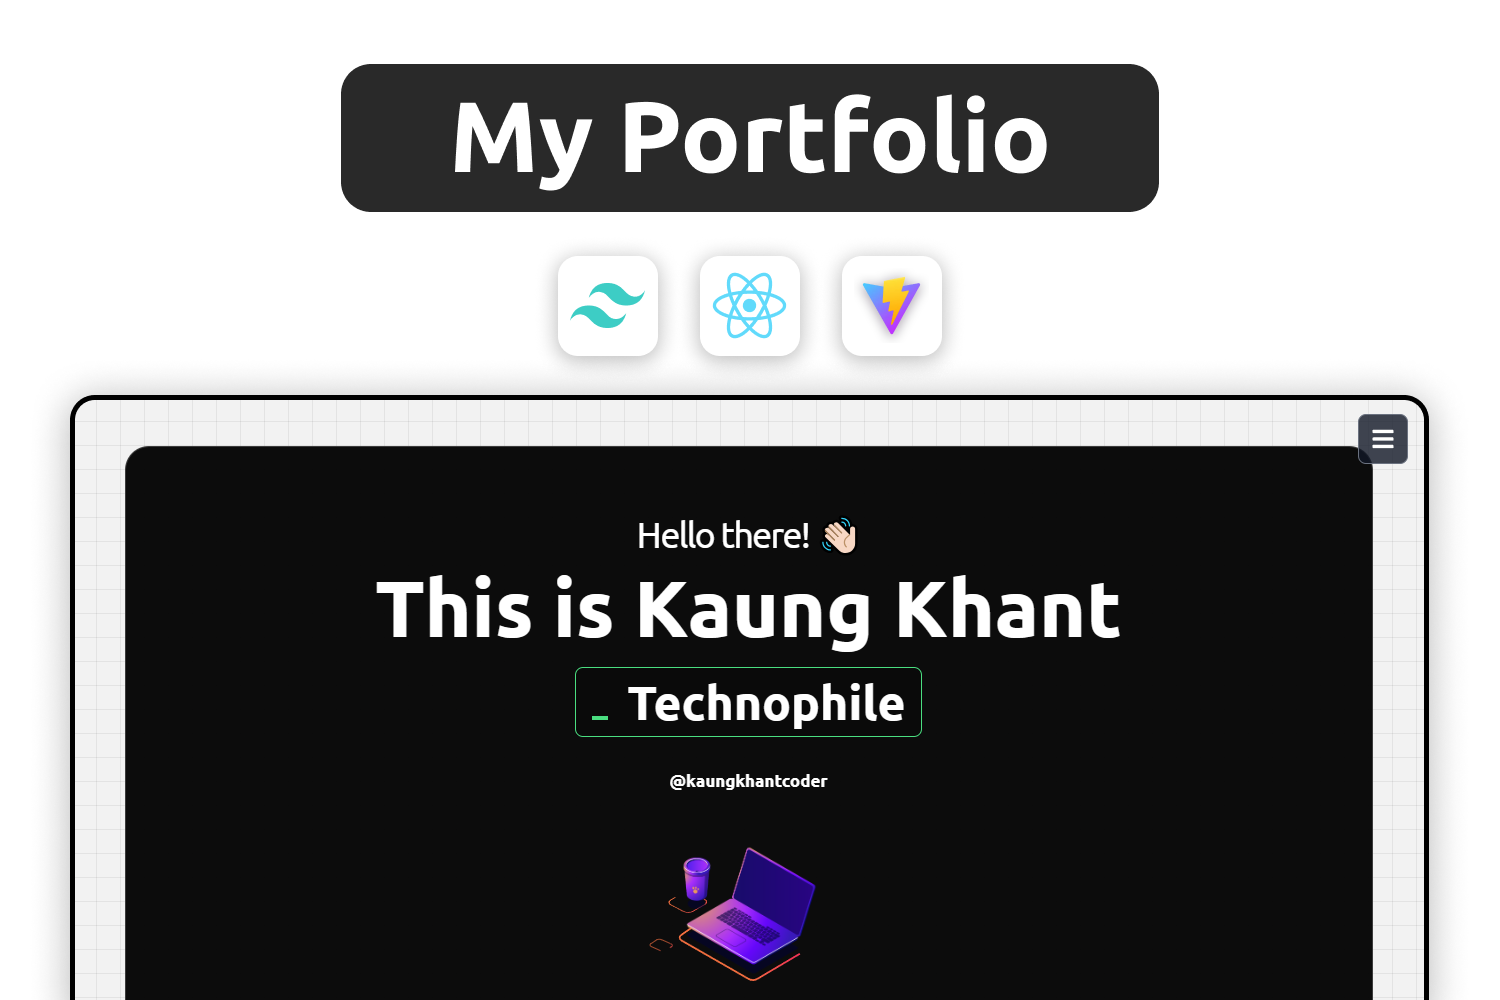
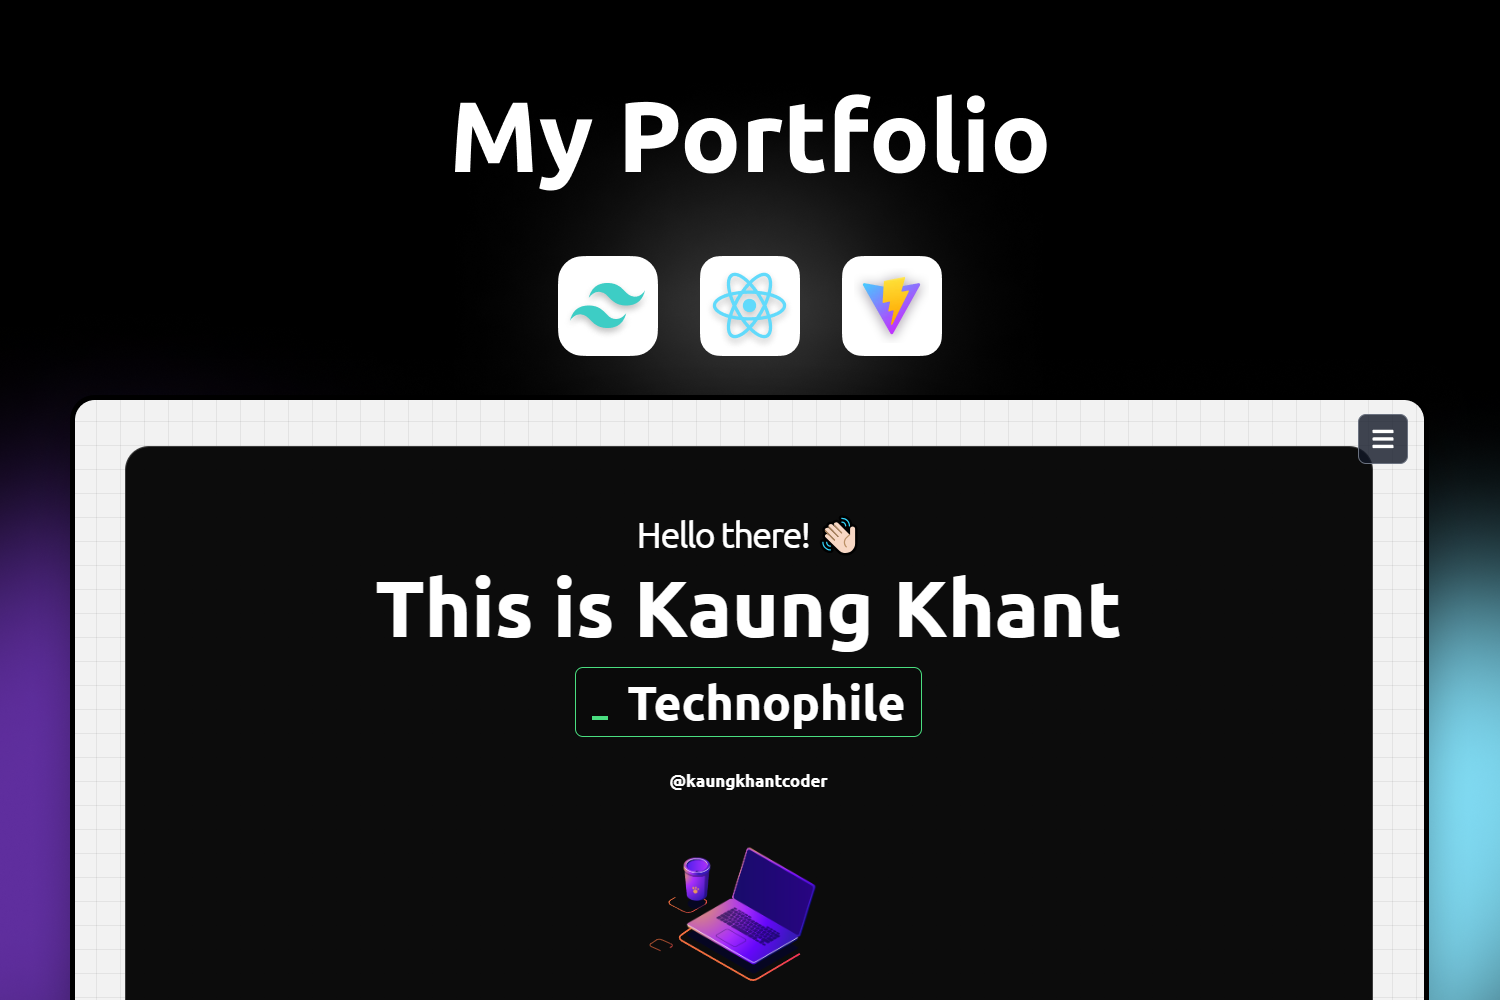
update hero pj

diff --git a/src/components/Projects.jsx b/src/components/Projects.jsx
@@ -279,6 +279,61 @@
 
 // export default Projects;
 
+// import { useState } from "react";
+// import { projects } from "../constants";
+
+// const Projects = () => {
+//   const [showAll, setShowAll] = useState(false); // State to toggle between 4 and all projects
+//   const visibleProjects = showAll ? projects : projects.slice(0, 4); // Show 4 projects or all
+
+//   return (
+//     <div className="">
+//       <h1 className="text-bold text-left text-[40px] md:text-[70px] text-black p-4">My Works <span className="inline-block w-8 h-1 bg-black mr-2"></span></h1>
+//       <div className="grid md:grid-cols-2 grid-cols-1 gap-6 p-4 max-w-4xl mx-auto" id="projects">
+//         {visibleProjects.map((project) => (
+//           <div
+//             key={project.id}
+//             className="relative overflow-hidden border p-3 border-black/50 rounded-lg group"
+//           >
+//             <img
+//               src={project.image}
+//               alt={project.name}
+//               className="w-full h-full object-cover transition rounded-lg border border-gray-200 duration-300 group-hover:blur-sm"
+//             />
+//             <div className="absolute inset-0 bg-black bg-opacity-50 flex flex-col items-center justify-center opacity-0 group-hover:opacity-100 transition duration-300">
+//               <h3 className="text-white text-lg font-bold">{project.name}</h3>
+//               <p className="text-white text-md font-medium text-center pl-4 pr-4 p-2">
+//                 {project.description}
+//               </p>
+//               <a
+//                 href={project.github}
+//                 target="_blank"
+//                 rel="noopener noreferrer"
+//                 className="mt-2 bg-white text-black px-4 py-2 rounded text-sm font-medium hover:bg-gray-200 transition duration-300"
+//               >
+//                 GitHub
+//               </a>
+//             </div>
+//           </div>
+//         ))}
+//         {/* See More / Show Less Button */}
+//         {projects.length > 4 && (
+//           <div className="col-span-full flex justify-center mt-6">
+//             <button
+//               onClick={() => setShowAll(!showAll)}
+//               className="px-6 py-2 rounded-xl bg-black text-white border border-gray-700/50 hover:bg-white hover:text-black transition-colors text-sm font-medium"
+//             >
+//               {showAll ? "Show Less" : "See More"}
+//             </button>
+//           </div>
+//         )}
+//       </div>
+//     </div>
+//   );
+// };
+
+// export default Projects;
+
 import { useState } from "react";
 import { projects } from "../constants";
 
@@ -287,47 +342,69 @@ const Projects = () => {
   const visibleProjects = showAll ? projects : projects.slice(0, 4); // Show 4 projects or all
 
   return (
-    <div className="">
-      <h1 className="text-bold text-left text-[40px] md:text-[70px] text-black p-4">My Works <span className="inline-block w-8 h-1 bg-black mr-2"></span></h1>
-      <div className="grid md:grid-cols-2 grid-cols-1 gap-6 p-4 max-w-4xl mx-auto" id="projects">
-        {visibleProjects.map((project) => (
-          <div
-            key={project.id}
-            className="relative overflow-hidden border p-3 border-black/50 rounded-lg group"
-          >
+    <div className="grid md:grid-cols-2 grid-cols-1 gap-4 p-6 w-full mx-auto" id="projects">
+      {visibleProjects.map((project) => (
+        <div
+          key={project.id}
+          className="bg-white rounded-xl p-4 shadow-lg"
+        >
+          {/* Header (Avatar, Name, Date) */}
+          <div className="flex items-center mb-3">
+            <img
+              src={"/src/assets/Koderlogo.png"}
+              alt={project.name}
+              className="w-10 h-10 rounded-full flex-shrink-0 mr-3 flex items-center justify-center text-white font-bold text-sm"
+            />
+            <div className="flex-1">
+              <div className="flex items-center justify-between">
+                <div>
+                  <h3 className="text-black font-semibold">{project.name}</h3>
+                  <span className="text-black/50 text-xs">
+                    {project.date || "April 2025"}
+                  </span>
+                </div>
+                <a
+                  href={project.github}
+                  target="_blank"
+                  rel="noopener noreferrer"
+                  className="hidden md:block bg-black/90 text-white px-4 py-1.5 rounded-md text-sm font-medium hover:scale-105 transition duration-200"
+                >
+                  View on GitHub
+                </a>
+              </div>
+            </div>
+          </div>
+          {/* Content (Description + Tech Stack) */}
+          <p className="text-black/90 text-sm overflow-hidden mt-5 mb-3">{project.description}</p>
+          {/* Image */}
+          <div className="mb-4 w-full overflow-hidden rounded-lg">
             <img
               src={project.image}
               alt={project.name}
-              className="w-full h-full object-cover transition rounded-lg border border-gray-200 duration-300 group-hover:blur-sm"
+              className="w-full h-full object-cover rounded-lg hover:scale-105 transition-transform duration-300"
             />
-            <div className="absolute inset-0 bg-black bg-opacity-50 flex flex-col items-center justify-center opacity-0 group-hover:opacity-100 transition duration-300">
-              <h3 className="text-white text-lg font-bold">{project.name}</h3>
-              <p className="text-white text-md font-medium text-center pl-4 pr-4 p-2">
-                {project.description}
-              </p>
-              <a
-                href={project.github}
-                target="_blank"
-                rel="noopener noreferrer"
-                className="mt-2 bg-white text-black px-4 py-2 rounded text-sm font-medium hover:bg-gray-200 transition duration-300"
-              >
-                GitHub
-              </a>
-            </div>
           </div>
-        ))}
-        {/* See More / Show Less Button */}
-        {projects.length > 4 && (
-          <div className="col-span-full flex justify-center mt-6">
-            <button
-              onClick={() => setShowAll(!showAll)}
-              className="px-6 py-2 rounded-xl bg-black text-white border border-gray-700/50 hover:bg-white hover:text-black transition-colors text-sm font-medium"
-            >
-              {showAll ? "Show Less" : "See More"}
-            </button>
-          </div>
-        )}
-      </div>
+          <a
+            href={project.github}
+            target="_blank"
+            rel="noopener noreferrer"
+            className="md:hidden bg-black/90 text-white hover:text-black hover:bg-black px-4 py-1.5 rounded-md md:text[16px] text-[12px] font-medium hover:scale-105 transition duration-200"
+          >
+            View on GitHub
+          </a>
+        </div>
+      ))}
+      {/* See More / Show Less Button */}
+      {projects.length > 4 && (
+        <div className="col-span-full flex justify-center mt-6">
+          <button
+            onClick={() => setShowAll(!showAll)}
+            className="px-6 py-2 rounded-xl bg-black text-white border border-gray-700/50 hover:bg-white hover:text-black transition-colors text-sm font-medium"
+          >
+            {showAll ? "Show Less" : "See More"}
+          </button>
+        </div>
+      )}
     </div>
   );
 };

diff --git a/src/components/Hero.jsx b/src/components/Hero.jsx
@@ -445,7 +445,7 @@ useEffect(() => {
   return (
     <section
       id="hero"
-      className="relative flex w-full items-center justify-center min-h-screen text-center rounded-3xl bg-black  border border-white/20 py-2 mt-[30px] overflow-hidden bg-black/95 text-white"
+      className="relative flex w-full items-center justify-center min-h-screen text-center rounded-3xl  border border-white/20 py-2 mt-[30px] overflow-hidden bg-black text-white"
     >
       <div className="flex flex-col w-full max-w-6xl mx-auto p-5 md:p-10 gap-6">
         {/* Top Section - Profile Info */}
@@ -456,7 +456,7 @@ useEffect(() => {
           <h1 className="text-2xl m-2 md:m-3 sm:text-5xl md:text-4xl lg:text-[5rem] font-bold">
               {HERO.name}
           </h1>
-          <div className="items-center mt-3 md:mt-7 backdrop-blur-lg border border-gray-200 text-center rounded-lg hover:scale-105 transition font-medium bg-white text-black dark:focus:ring-gray-600 dark:bg-black/20 dark:border-green-400 dark:text-white">
+          <div className="items-center mt-3 md:mt-7 backdrop-blur-lg border border-green-500 text-center rounded-lg hover:scale-105 transition font-medium text-white">
             <h1 className="p-3 md:p-4 text-2xl md:text-3xl lg:text-[3rem] font-bold">
               <span className="inline-block w-4 h-1 bg-green-400 mr-2"></span> {HERO.job}
             </h1>
@@ -474,7 +474,7 @@ useEffect(() => {
             <a
               href="/cv.pdf"
               download
-              className="flex items-center px-4 py-2 border border-gray-200 text-center rounded-lg hover:scale-105 transition font-medium bg-white text-black dark:focus:ring-gray-600 dark:bg-gray-800 dark:border-gray-700 dark:text-white dark:hover:bg-gray-700"
+              className="flex items-center px-4 py-2 border border-white text-center rounded-lg hover:scale-105 transition font-medium text-white hover:bg-white hover:text-black"
             >
               Explore My CV <SiReaddotcv className="ml-2" />
             </a>

diff --git a/src/constants/index.jsx b/src/constants/index.jsx
@@ -26,7 +26,7 @@ export const EmailButton = () => {
       {/* Copy Email Button */}
       <a
         onClick={handleCopyEmail}
-        className="flex items-center px-4 py-2 backdrop-blur-lg border border-gray-200 text-center rounded-lg hover:scale-105 transition font-medium bg-white text-black dark:focus:ring-gray-600 dark:bg-gray-800 dark:border-gray-700 dark:text-white dark:hover:bg-gray-700 cursor-pointer"
+        className="flex items-center px-4 py-2 border border-white text-center rounded-lg hover:scale-105 transition font-medium bg-white text-black cursor-pointer"
       >
         <CgMail className="mr-2" /> COPY EMAIL
       </a>
@@ -57,6 +57,7 @@ export const EmailButton = () => {
 //   FaInstagram,
 // } from "react-icons/fa6";
 
+import profileImage from "../assets/Koderlogo.png"
 import projectImage1 from "../assets/Project1.png";
 import projectImage2 from "../assets/project2.jpeg";
 import projectImage3 from "../assets/project3.jpeg";
@@ -207,7 +208,7 @@ export const PROJECTS = [
 ];
 
 export const projects = [
-  { id: 1, name: "Project 1", image: projectImage1, description: "This is my application", github: "https://github.com" },
+  { id: 1, name: "Myanmar Healthcare chat bot", image: projectImage1, description: "This is my application, This is making in one day, You can chat with our bot, that's excaetly, working on you machine.", github: "https://github.com" },
   { id: 2, name: "Project 2", image: projectImage1, description: "This is my application", github: "https://github.com" },
   { id: 3, name: "Project 3", image: projectImage1, description: "This is my application", github: "https://github.com" },
   { id: 4, name: "Project 4", image: projectImage1, description: "This is my application", github: "https://github.com" },
